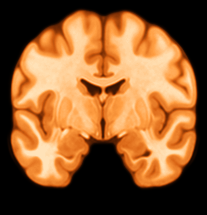
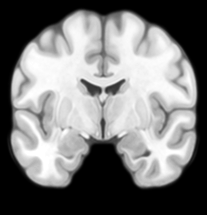
Take the plate off the mark, and show the real thing on the front page
The mark carried a black disc behind it, which meant it only ever worked
on a dark ground: on anything light it read as a black coin with a ring
printed on it. The disc is gone. What is left is the ring alone, drawn on
whatever it is placed on, so it sits on the light page and the dark one
alike. logo.svg, favicon-32.png and apple-touch-icon.png are all rebuilt
from the same geometry, the two icons now carrying an alpha channel
rather than a baked-in background.

The front page was showing hand-drawn stand-ins where the real work
belongs — a sketch of a brain instead of the atlas, a fan of arcs
instead of the tractogram, a set of contours instead of the chart. They
are replaced by captures taken from the live pages themselves: the
atlas's own four-up with regions highlighted, the HCP1065 tractogram as
the page renders it, and the receptor chart as the page plots it. The
front page can now only promise what the site actually delivers. The
captures are cut to JPEG at display size, so the three of them together
come to 400 KB rather than three and a half megabytes.

The ring in the Network Atlas box grows from 290 to 520 across, which is
the size it needs to be for the chords to be legible rather than a
texture.

Receptor density is filed under wiring, not chemistry: what the page
shows is which receptors a circuit is built from, which is a fact about
how the thing is put together.

The sharing card drops the orange tint. Its slices are cut under the
[…]

diff --git a/site/index.html b/site/index.html
@@ -186,18 +186,24 @@ a.box:hover .go{ text-decoration:underline; text-underline-offset:3px; }
   display:inline-flex; align-items:center; gap:.45rem;
 }
 
-/* the figure: line art in the running colour, so it flips with the theme */
+/* the figure. Each box shows a capture of what its own page actually draws,
+   taken from the live page rather than drawn by hand, so the front page can
+   only ever promise what the site delivers. They are renders on black, so
+   they sit on a plate of their own rather than on the paper. */
 .fig{
   margin:1rem 0 .2rem; display:flex; align-items:center; justify-content:center;
   flex:1 1 auto; min-height:0;
 }
-.fig svg{ width:100%; height:auto; max-height:100%; color:var(--ink); }
+.shot{
+  display:block; width:100%; overflow:hidden;
+  border:1px solid var(--ink-35); background:#000000;
+}
+.shot img{ width:100%; height:auto; display:block; }
 .m-atlas .fig{ margin-top:1.4rem; }
-.m-atlas .fig svg{ max-width:min(100%,520px); }
-.m-network .fig svg, .m-tracts .fig svg, .m-recept .fig svg{ max-width:min(100%,340px); }
 
-/* the ring, which is the mark itself, keeps its own colours */
-.m-network .fig img{ width:min(100%,290px); height:auto; }
+
+/* the ring is the mark itself, drawn on nothing, so it needs no plate */
+.m-network .fig img{ width:min(100%,520px); height:auto; }
 
 /* the wide box lays its figure beside the text rather than above it */
 .box-h{ display:grid; grid-template-columns:minmax(0,1fr) minmax(0,1fr); gap:clamp(16px,1.7vw,26px); align-items:stretch; }
@@ -291,67 +297,7 @@ a.box:hover .go{ text-decoration:underline; text-underline-offset:3px; }
       <h2>Region Atlas</h2>
       <p>Pick any of the 116 AAL regions and watch it light up on the MNI152 template at once in axial, coronal, sagittal and 3D. Cut the volume open along any axis to see the scan inside the slice, probe a voxel to learn which parcel it belongs to, and read what each highlighted region does beneath the views — stacked cerebrum, midbrain, reptilian core.</p>
       <div class="fig" aria-hidden="true">
-        <svg viewBox="0 0 420 428" fill="none" stroke="currentColor">
-          <g font-family="Flux, 'Afacad Flux', sans-serif" font-size="9" letter-spacing="2.2"
-             fill="currentColor" stroke="none" opacity=".55">
-            <text x="8" y="10">AXIAL</text><text x="228" y="10">CORONAL</text>
-            <text x="8" y="230">SAGITTAL</text><text x="228" y="230">3D</text>
-          </g>
-          <g stroke-width="1" opacity=".45">
-            <rect x="0" y="18" width="200" height="182"/><rect x="220" y="18" width="200" height="182"/>
-            <rect x="0" y="238" width="200" height="182"/><rect x="220" y="238" width="200" height="182"/>
-          </g>
-
-          <!-- axial: parcels inked in, and the probe crosshair -->
-          <g transform="translate(0,18)">
-            <ellipse cx="76" cy="62" rx="21" ry="27" transform="rotate(-18 76 62)" fill="currentColor" stroke="none" opacity=".62"/>
-            <ellipse cx="128" cy="70" rx="18" ry="24" transform="rotate(17 128 70)" fill="currentColor" stroke="none" opacity=".24"/>
-            <ellipse cx="70" cy="128" rx="16" ry="23" transform="rotate(13 70 128)" fill="currentColor" stroke="none" opacity=".4"/>
-            <ellipse cx="130" cy="134" rx="19" ry="21" transform="rotate(-11 130 134)" fill="currentColor" stroke="none" opacity=".15"/>
-            <path d="M100,14 C138,14 166,44 166,92 C166,148 138,170 100,170 C62,170 34,148 34,92 C34,44 62,14 100,14 Z" stroke-width="1.5"/>
-            <path d="M100,17 V167" stroke-width="1" opacity=".5"/>
-            <path d="M90,84 C83,96 83,114 91,126" stroke-width="1.2" opacity=".7"/>
-            <path d="M110,84 C117,96 117,114 109,126" stroke-width="1.2" opacity=".7"/>
-            <path d="M4,104 H62 M90,104 H196" stroke-width="1" opacity=".5" stroke-dasharray="4 4"/>
-            <path d="M76,26 V90 M76,118 V174" stroke-width="1" opacity=".5" stroke-dasharray="4 4"/>
-            <circle cx="76" cy="104" r="5" stroke-width="1.2"/>
-          </g>
-
-          <!-- coronal: square shoulders, temporal lobes hanging under them -->
-          <g transform="translate(220,18)">
-            <path d="M62,52 C62,34 84,26 100,32 C116,26 138,34 138,52 C138,64 130,72 118,74 L82,74 C70,72 62,64 62,52 Z" fill="currentColor" stroke="none" opacity=".5"/>
-            <path d="M100,16 C142,16 168,44 168,84 C168,110 162,126 150,134 C148,150 138,158 126,156 C120,164 108,166 100,160 C92,166 80,164 74,156 C62,158 52,150 50,134 C38,126 32,110 32,84 C32,44 58,16 100,16 Z" stroke-width="1.5"/>
-            <path d="M100,20 V150" stroke-width="1" opacity=".5"/>
-            <path d="M84,96 C78,106 78,118 84,126 M116,96 C122,106 122,118 116,126" stroke-width="1.2" opacity=".7"/>
-            <path d="M46,120 C58,128 72,130 84,126 M154,120 C142,128 128,130 116,126" stroke-width="1" opacity=".4"/>
-          </g>
-
-          <!-- sagittal: cerebrum, corpus callosum, cerebellum, brainstem -->
-          <g transform="translate(0,238)">
-            <path d="M30,88 C30,46 62,20 102,20 C144,20 174,48 174,86 C174,108 162,124 142,130 L62,130 C42,124 30,110 30,88 Z" fill="currentColor" stroke="none" opacity=".16"/>
-            <path d="M62,88 C68,66 96,58 124,62 C142,65 152,74 152,84 C144,76 128,70 110,71 C88,72 72,80 66,94 Z" fill="currentColor" stroke="none" opacity=".55"/>
-            <path d="M30,88 C30,46 62,20 102,20 C144,20 174,48 174,86 C174,108 162,124 142,130 L62,130 C42,124 30,110 30,88 Z" stroke-width="1.5"/>
-            <ellipse cx="144" cy="143" rx="27" ry="20" stroke-width="1.4"/>
-            <path d="M122,135 H166 M119,143 H169 M122,151 H166" stroke-width=".9" opacity=".5"/>
-            <path d="M118,127 C118,144 114,160 112,174 L96,174 C98,158 100,143 100,127 Z" fill="var(--paper)" stroke="none"/>
-            <path d="M118,127 C118,144 114,160 112,174 L96,174 C98,158 100,143 100,127" stroke-width="1.4" fill="currentColor" fill-opacity=".26"/>
-            <path d="M46,62 C70,74 104,76 132,68" stroke-width="1" opacity=".38"/>
-            <path d="M40,44 C64,58 106,60 140,50" stroke-width="1" opacity=".38"/>
-            <path d="M50,110 C74,120 108,120 136,112" stroke-width="1" opacity=".38"/>
-          </g>
-
-          <!-- 3D: the same head, turned, with parcels laid on the surface -->
-          <g transform="translate(220,238)">
-            <path d="M26,86 C26,44 62,16 104,20 C154,25 184,54 182,90 C180,120 158,142 126,150 C116,158 100,160 90,154 C70,155 52,146 42,131 C30,118 26,102 26,86 Z" fill="currentColor" stroke="none" opacity=".14"/>
-            <path d="M64,56 C84,42 112,44 124,60 C132,72 124,86 106,90 C86,94 66,84 62,72 C60,64 60,60 64,56 Z" fill="currentColor" stroke="none" opacity=".6"/>
-            <path d="M132,92 C150,90 162,100 160,112 C158,124 142,132 128,126 C116,120 114,102 132,92 Z" fill="currentColor" stroke="none" opacity=".34"/>
-            <path d="M26,86 C26,44 62,16 104,20 C154,25 184,54 182,90 C180,120 158,142 126,150 C116,158 100,160 90,154 C70,155 52,146 42,131 C30,118 26,102 26,86 Z" stroke-width="1.5"/>
-            <path d="M42,56 C72,72 118,74 156,58" stroke-width="1" opacity=".36"/>
-            <path d="M30,92 C70,110 126,112 178,94" stroke-width="1" opacity=".36"/>
-            <path d="M42,126 C74,142 114,146 150,134" stroke-width="1" opacity=".36"/>
-            <path d="M88,22 C82,60 82,112 90,154" stroke-width="1" opacity=".28"/>
-          </g>
-        </svg>
+        <span class="shot"><img src="assets/home/atlas.jpg" alt="" decoding="async" width="900" height="1013"></span>
       </div>
       <div class="meta">116 parcels &middot; four viewports &middot; slice tool &middot; PNG export</div>
       <div class="go">Open the atlas &rarr;</div>
@@ -369,59 +315,25 @@ a.box:hover .go{ text-decoration:underline; text-underline-offset:3px; }
       <div class="go">Open the ring &rarr;</div>
     </a>
 
-    <!-- ── the wiring ─────────────────────────────────────────────── -->
+    <!-- ── the tractogram ─────────────────────────────────────────── -->
     <a class="box m-tracts" href="tracts.html">
       <div class="kicker">White matter</div>
       <h2>Tractography</h2>
       <p>The HCP1065 population-average tractogram: a million estimated fibre paths through the white matter, coloured by the direction each one runs and turned freely in 3D.</p>
       <div class="fig" aria-hidden="true">
-        <svg viewBox="0 0 240 165" fill="none" stroke="currentColor" stroke-linecap="round">
-          <path d="M24,140 C54,38 186,38 216,140" stroke-width="1.7" opacity=".9"/>
-          <path d="M37,145 C63,53 177,53 203,145" stroke-width="1.7" opacity=".78"/>
-          <path d="M50,150 C72,68 168,68 190,150" stroke-width="1.7" opacity=".66"/>
-          <path d="M63,154 C81,84 159,84 177,154" stroke-width="1.7" opacity=".54"/>
-          <path d="M76,158 C90,100 150,100 164,158" stroke-width="1.7" opacity=".42"/>
-          <path d="M113,96 C110,122 107,142 104,162" stroke-width="1.5" opacity=".8"/>
-          <path d="M120,94 C120,120 120,142 120,163" stroke-width="1.5" opacity=".9"/>
-          <path d="M127,96 C130,122 133,142 136,162" stroke-width="1.5" opacity=".8"/>
-          <path d="M89,161 C97,110 143,110 151,161" stroke-width="1.7" opacity=".32"/>
-          <path d="M18,120 C40,96 70,90 96,96" stroke-width="1.3" opacity=".5"/>
-          <path d="M222,120 C200,96 170,90 144,96" stroke-width="1.3" opacity=".5"/>
-          <path d="M14,134 C38,112 68,104 94,110" stroke-width="1.3" opacity=".36"/>
-          <path d="M226,134 C202,112 172,104 146,110" stroke-width="1.3" opacity=".36"/>
-          <path d="M100,90 C90,70 74,58 54,54" stroke-width="1.2" opacity=".45"/>
-          <path d="M140,90 C150,70 166,58 186,54" stroke-width="1.2" opacity=".45"/>
-        </svg>
+        <span class="shot"><img src="assets/home/tracts.jpg" alt="" loading="lazy" decoding="async" width="1200" height="700"></span>
       </div>
       <div class="meta">Direction-coloured streamlines &middot; free rotation</div>
       <div class="go">Open the tractogram &rarr;</div>
     </a>
 
-    <!-- ── the chemistry ──────────────────────────────────────────── -->
+    <!-- ── the receptors ─────────────────────────────────────────── -->
     <a class="box m-recept" href="receptors.html">
-      <div class="kicker">Chemistry</div>
+      <div class="kicker">Wiring</div>
       <h2>Receptor Density</h2>
       <p>How thickly each receptor family sits in each structure, in fmol per mg of tissue — read by receptor or by region, as a chart, a table, or a primer on what the receptor types do.</p>
       <div class="fig" aria-hidden="true">
-        <svg viewBox="0 0 240 165" fill="none" stroke="currentColor">
-          <!-- nested density contours -->
-          <path d="M120,16 C176,16 214,52 214,80 C214,114 174,132 120,132 C66,132 26,114 26,80 C26,52 64,16 120,16 Z" fill="currentColor" stroke="none" opacity=".10"/>
-          <path d="M120,32 C162,32 192,58 192,80 C192,104 162,118 120,118 C78,118 48,104 48,80 C48,58 78,32 120,32 Z" fill="currentColor" stroke="none" opacity=".16"/>
-          <path d="M120,48 C148,48 170,62 170,80 C170,98 148,106 120,106 C92,106 70,98 70,80 C70,62 92,48 120,48 Z" fill="currentColor" stroke="none" opacity=".26"/>
-          <path d="M120,62 C136,62 148,70 148,80 C148,92 136,96 120,96 C104,96 92,92 92,80 C92,70 104,62 120,62 Z" fill="currentColor" stroke="none" opacity=".6"/>
-          <!-- the scale it is read against -->
-          <g stroke="none" fill="currentColor">
-            <rect x="26" y="146" width="23.5" height="13" opacity=".08"/>
-            <rect x="49.5" y="146" width="23.5" height="13" opacity=".18"/>
-            <rect x="73" y="146" width="23.5" height="13" opacity=".3"/>
-            <rect x="96.5" y="146" width="23.5" height="13" opacity=".44"/>
-            <rect x="120" y="146" width="23.5" height="13" opacity=".58"/>
-            <rect x="143.5" y="146" width="23.5" height="13" opacity=".72"/>
-            <rect x="167" y="146" width="23.5" height="13" opacity=".86"/>
-            <rect x="190.5" y="146" width="23.5" height="13" opacity="1"/>
-          </g>
-          <rect x="26" y="146" width="188" height="13" stroke-width="1"/>
-        </svg>
+        <span class="shot"><img src="assets/home/receptors.jpg" alt="" loading="lazy" decoding="async" width="1040" height="610"></span>
       </div>
       <div class="meta">fmol / mg tissue &middot; chart, table &amp; primer</div>
       <div class="go">Open the densities &rarr;</div>

diff --git a/site/share.html b/site/share.html
@@ -4,7 +4,7 @@
 <meta charset="utf-8">
 <meta name="viewport" content="width=device-width, initial-scale=1.0">
 <title>Share Card — VisualNeuroscience.AI</title>
-<meta name="description" content="The sharing card: the flow-state ring over orange-tinted MNI152 slices, with the wordmark at its centre.">
+<meta name="description" content="The sharing card: the flow-state ring over greyscale MNI152 slices, with the wordmark at its centre.">
 <link rel="icon" href="assets/logo.svg" type="image/svg+xml">
 <link rel="alternate icon" href="assets/favicon-32.png" sizes="32x32" type="image/png">
 <link href="https://fonts.googleapis.com/css2?family=Afacad+Flux:wght@400;500;600&family=Newsreader:ital,opsz,wght@0,6..72,400;1,6..72,400&display=swap" rel="stylesheet">
@@ -40,7 +40,7 @@ body{
 .scans img{
   position:absolute; top:50%; transform:translateY(-50%);
   width:auto; display:block;
-  opacity:.95; filter:saturate(1.2) contrast(1.06);
+  opacity:.95; filter:contrast(1.06);
 }
 .scans .sag{ left:26px; height:436px; }
 .scans .ax{ right:34px; height:452px; }
@@ -174,7 +174,7 @@ body{
   <div class="corner br">MNI152 &middot; AAL-116</div>
 </div>
 
-<p class="note">The sharing card, at its true size of <b>1200&thinsp;&times;&thinsp;630</b> — the ratio link previews crop to. The scans are real slices of the MNI152 template the site ships, cut by <b>scripts/make_social.py</b> and put under an orange ramp; the ring is the flow state as the Network Atlas draws it. Rendered to <b>assets/social-card.jpg</b>, which every page points at for <b>og:image</b>.</p>
+<p class="note">The sharing card, at its true size of <b>1200&thinsp;&times;&thinsp;630</b> — the ratio link previews crop to. The scans are real slices of the MNI152 template the site ships, cut by <b>scripts/make_social.py</b> and put under the standard greyscale; the ring is the flow state as the Network Atlas draws it. Rendered to <b>assets/social-card.jpg</b>, which every page points at for <b>og:image</b>.</p>
 
 </body>
 </html>

diff --git a/scripts/make_social.py b/scripts/make_social.py
@@ -1,9 +1,10 @@
 #!/usr/bin/env python3
-"""Cut orange-tinted MRI slices for the sharing card.
+"""Cut greyscale MRI slices for the sharing card.
 
 Reads the same MNI152 volume the site ships — no download, no second copy of
 the data — takes one slice down each anatomical axis and writes it out under
-an orange ramp, so the card's scans are the real thing rather than stock art.
+the greyscale a scanner writes, so the card's scans read as scans rather than
+as stock art with a filter on them.
 
     python3 scripts/make_social.py
 
@@ -25,15 +26,14 @@ ROOT = os.path.dirname(os.path.dirname(os.path.abspath(__file__)))
 ATLAS_JS = os.path.join(ROOT, "site", "assets", "atlas-data.js")
 OUT_DIR = os.path.join(ROOT, "site", "assets", "social")
 
-# black through burnt orange to a warm highlight — the scan reads as a scan,
-# but in the site's own warm key rather than clinical grey
+# The standard radiological greyscale: black through to white, with the mid
+# tones lifted a little so grey and white matter stay apart on a small card.
 RAMP = [
     (0.00, (0, 0, 0)),
-    (0.18, (34, 12, 2)),
-    (0.40, (120, 44, 4)),
-    (0.62, (214, 96, 18)),
-    (0.82, (255, 158, 66)),
-    (1.00, (255, 226, 184)),
+    (0.25, (58, 58, 58)),
+    (0.50, (124, 124, 124)),
+    (0.75, (196, 196, 196)),
+    (1.00, (255, 255, 255)),
 ]
 
 

diff --git a/scripts/make_logo.py b/scripts/make_logo.py
@@ -9,6 +9,10 @@ and re-run this to keep the mark in step.
 
     python3 scripts/make_logo.py > site/assets/logo.svg
 
+The mark has no background of its own. It is the ring and nothing else, so it
+reads on a white page and a black one alike, and the browser tab picks up
+whichever chrome the reader is running.
+
 The site uses this one mark everywhere — masthead and browser tab alike — so
 the tab shows what the page shows. A --favicon variant is kept for the case
 where that stops working: it drops the threads and thickens the arcs to the
@@ -115,9 +119,8 @@ for j, l in enumerate(LINKS):
         f'<stop offset="100%" stop-color="{colour[l[1]]}"/></linearGradient>')
 out.append("</defs>")
 
-# a filled circle rather than the square the box would otherwise be
-out.append(f'<circle cx="{CX:.0f}" cy="{CY:.0f}" r="{BOX:.0f}" fill="#111111"/>')
-
+# No plate behind the ring: the mark is drawn on whatever it is placed on, so
+# it sits on the light page and the dark one without carrying its own square.
 out.append('<g fill="none" stroke-linecap="butt">')
 for j, l in enumerate(LINKS if not FAVICON else []):
     w = (1.9 + l[2]*3.8)*1.18              # heavier than the page, for small sizes
